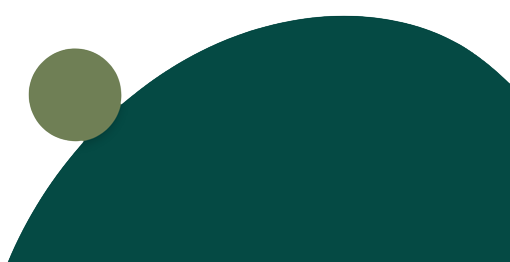
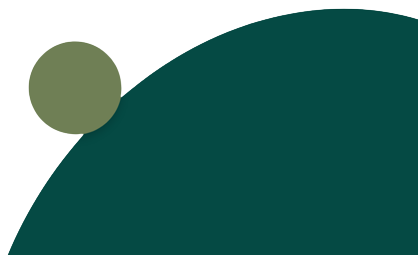
home - v2 - desktop

Changed region(s): [[0.0311, 0.0275, 1.0, 0.9333], [0.0, 0.9333, 0.0311, 1.0], [0.0933, 0.1922, 0.1244, 0.2196]]

diff --git a/home.html b/home.html
@@ -13,7 +13,7 @@
 
 </head>
 <body class="bg-blanc">
-    <header class="w-full h-20 bg-blanc flex justify-between items-center shadow-lg px-5 md:h-40 md:justify-around">
+    <header class="w-full h-20 bg-blanc flex justify-between items-center shadow-lg px-5 md:h-40 md:justify-around ">
         <div class="flex h-5 w-8 flex-col justify-between md:hidden">
             <span class="h-1 w-6 rounded bg-vertfonce content-['']"></span>
             <span class="h-1 w-8 rounded bg-vertfonce content-['']"></span>
@@ -25,7 +25,7 @@
         <a class="hidden font-oredo uppercase text-vertclair md:block" href="#">Agenda</a>
         <a class="hidden font-oredo uppercase text-vertclair md:block" href="#">Contact</a>
     </header>
-    <div class="bg-[url('assets/img/fond-b1.png')] bg-cover bg-no-repeat md:bg-blanc md:h-full">
+    <div class="bg-[url('assets/img/fond-b1.png')] bg-cover bg-no-repeat md:bg-none md:h-full">
         <div class="w-full flex flex-col items-center">
             <div class="flex items-center mt-5">
                 <img class="absolute left-0 w-24 -mr-5 md:relative" src="assets/img/bubulles.png" alt="bulles">
@@ -37,7 +37,7 @@
               <span class="w-28 h-1 bg-vertfonce "></span>
               <h2 class="text-xl md:text-4xl font-oredo uppercase">et si on se lavait ?</h2>
         </div>
-        <div class="w-full flex flex-col md:flex-row items-center p-5">
+        <div class="w-full flex flex-col md:flex-row items-center md:h-4/5 md:pt-20">
             <div class="hidden md:w-28 md:h-28 md:bg-vertclair md:absolute md:left-40 md:top-40 md:block md:rounded-full md:shadow-lg"></div>
             <div class="hidden md:w-32 md:h-32 md:bg-jaune md:absolute md:left-0 md:top-100 md:block md:rounded-full md:shadow-lg"></div>
             <div class="bg-[url('assets/img/decoupe.jpg')] w-40 h-40 rounded-full flex flex-col justify-end items-center border-jaune border-solid border-2 bg-contain md:w-80 md:h-80">
@@ -45,7 +45,7 @@
                 <button class="h-6 w-6 bg-jaune rounded-full p-1 mb-2 md:h-12 md:w-12 md:p-2"><img src="assets/img/panier.png" alt="panier"></button>
             </div>
             <div class="md:bg-[url('assets/img/fond-b1-desktop.png')] md:bg-cover md:bg-no-repeat md:h-80 md:w-1/2 md:absolute md:right-0">
-                <p class="text-blanc font-lato text-[12px] pt-5 md:text-xl">
+                <p class="text-blanc font-lato text-[12px] pt-5 md:text-xl pb-5">
                     Avant il y avait le gel douche et les problèmes de peau.<br>
                     Avant il y avait plus de bouteilles dans la douche que de pieds à laver.<br>
                     Avant il y avait des poubelles à vider.<br>
